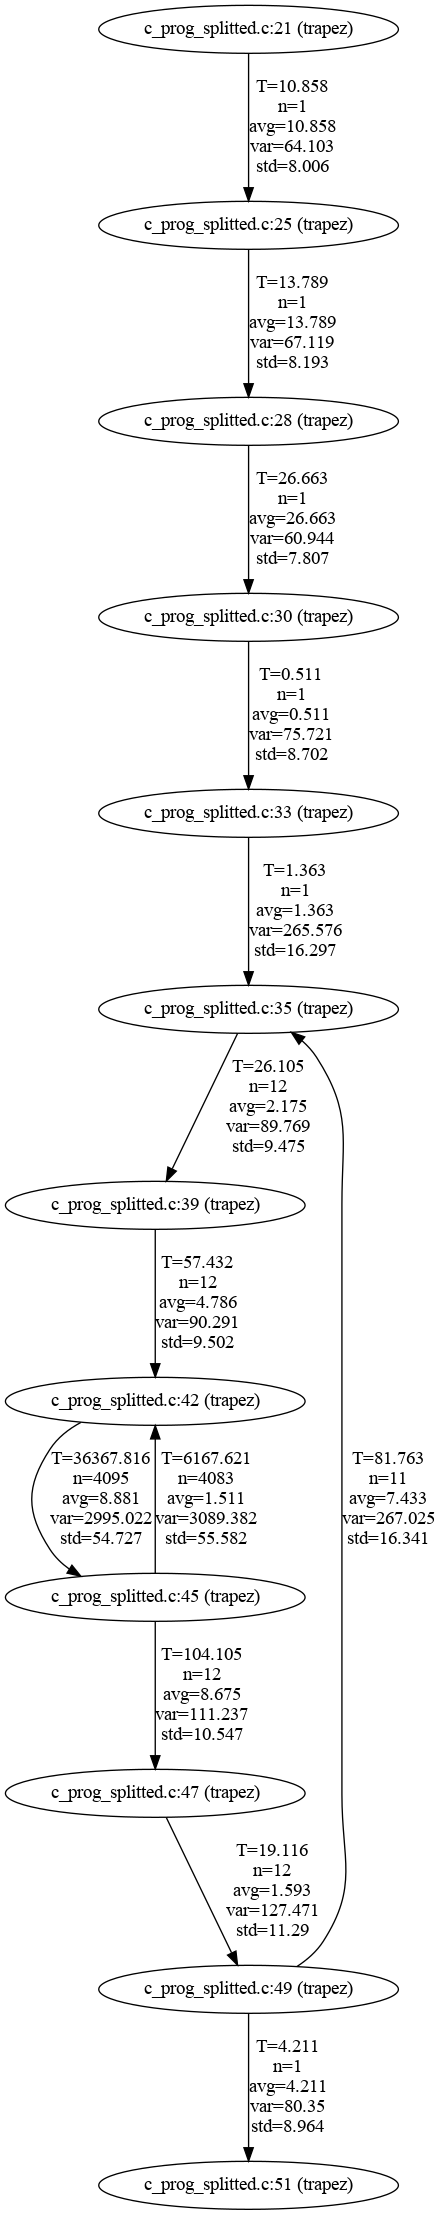
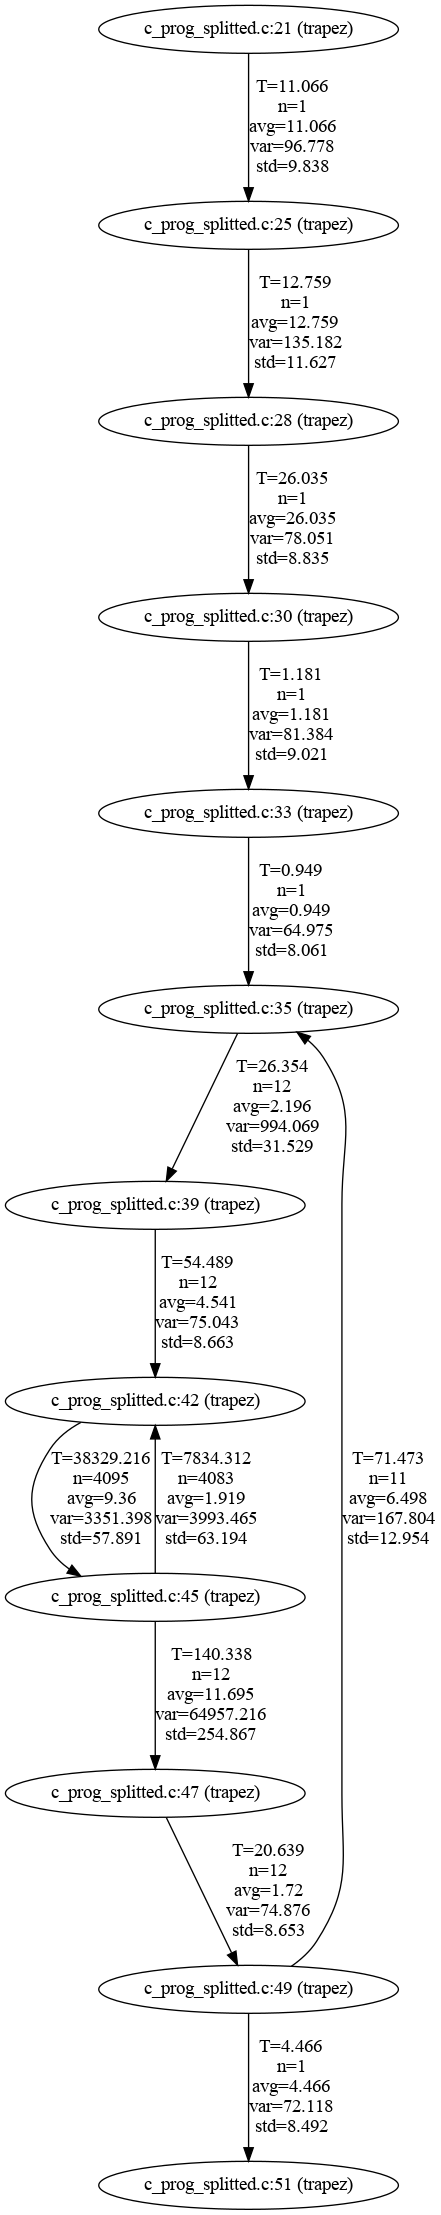
rerun analyzer

diff --git a/L3/calc.py b/L3/calc.py
@@ -1,21 +1,13 @@
-splited_total = [
-    11.556,25.331,178.043,1.164,1.749,22.651,49.813,35330.592,94.427,3542.309,26.520,84.406,3.151,
-]
+splited_total = [11.066,12.759,26.035,1.181,0.949,26.354,54.489,38329.216,140.338,7834.312,20.639,71.473,4.466]
 
-splited_avg = [
-    11.556,25.331,178.043,1.164,1.749,2.059,4.528,17.260,8.584,1.740,2.411,8.441,3.151
-]
+splited_avg = [11.066, 12.759, 26.035, 1.181, 0.949, 2.196, 4.541, 9.360, 11.695, 1.919, 1.720, 6.498, 4.466]
 
 print("splited_total:", sum(splited_total))
 print("splited_avg:", sum(splited_avg))
 
-splited_mod_total = [
-    10.416,12.880,103.872,0.740,0.857,14.292,31.388,31594.158,85.737,2801.228,13.254,48.192,4.892
-]
+splited_mod_total = [11.346,12.973,26.732,1.480,1.513,12.062,47.872,36307.406,86.955,4754.657,38.668,87.096,2.788]
 
-splited_mod_avg = [
-    10.416,12.880,103.872,0.740,0.857,1.299,2.853,15.434,7.794,1.376,1.205,4.819,4.892
-]
+splited_mod_avg = [11.346,12.973,26.732,1.480,1.513,1.005,3.989,8.866,7.246,1.165,3.222,7.918,2.788]
 
 print("splited_mod_total:", sum(splited_mod_total))
 print("splited_mod_avg:", sum(splited_mod_avg))
